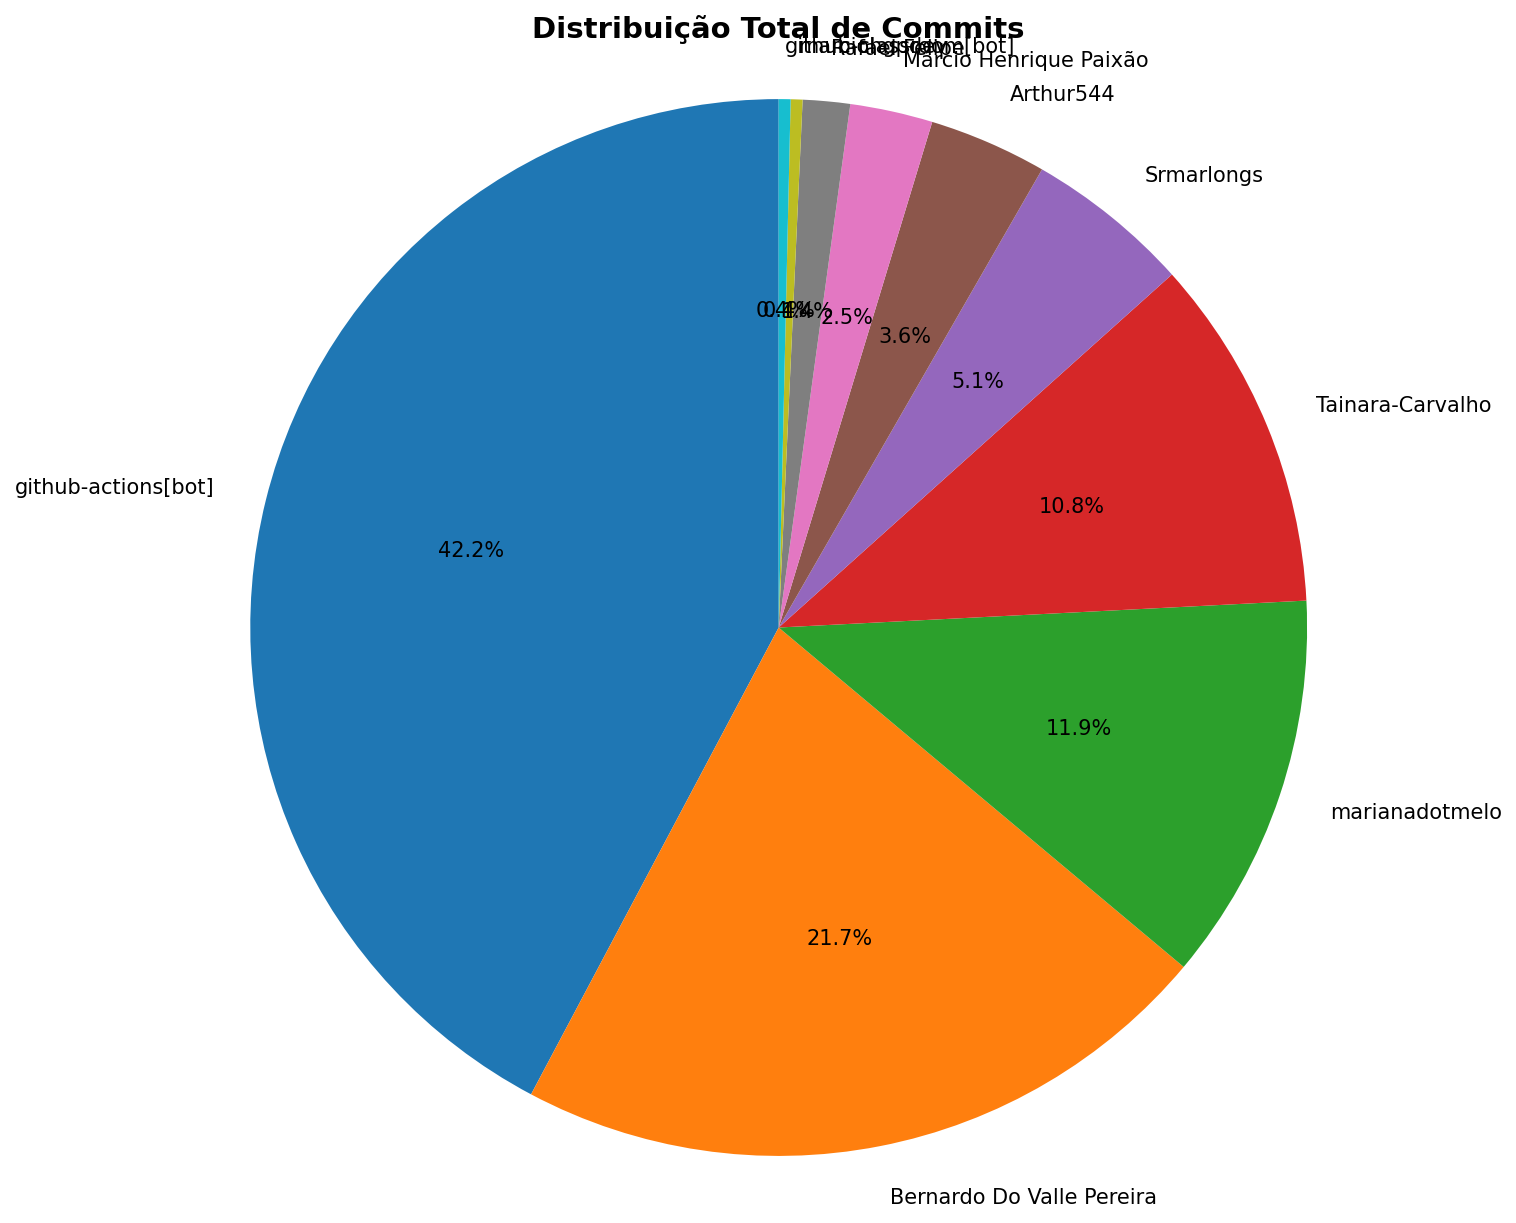
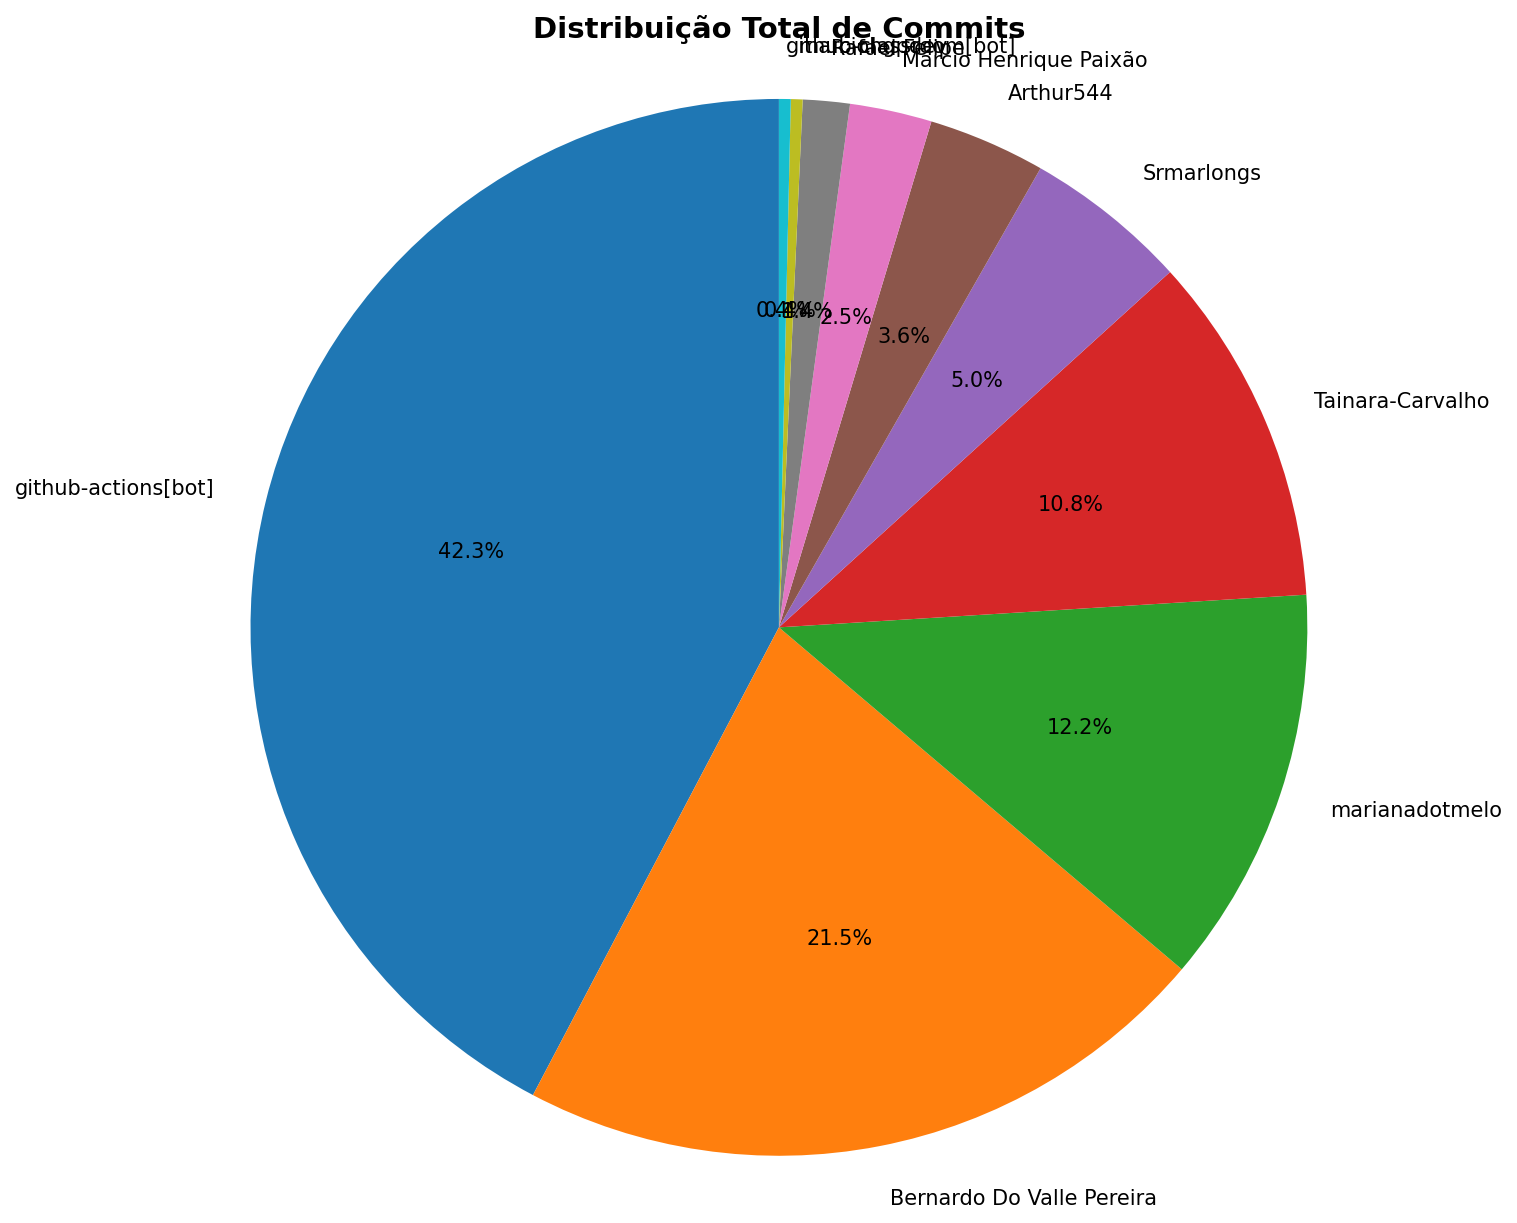
📊 Atualizar relatório de contribuições [skip ci]

diff --git a/documentos/CONTRIBUTION_REPORT.md b/documentos/CONTRIBUTION_REPORT.md
@@ -1,6 +1,6 @@
 # 📊 Relatório de Contribuições do Projeto
 
-**Última atualização:** 07/06/2026 17:49
+**Última atualização:** 07/06/2026 19:13
 
 ---
 
@@ -14,31 +14,31 @@
 | Rafael Felipe             |         4 |       249 |         2 |          4 |              2 |               1 |
 | Srmarlongs                |        14 |      1575 |        11 |         13 |             10 |               2 |
 | Tainara-Carvalho          |        30 |       785 |       172 |          8 |             27 |               2 |
-| github-actions[bot]       |       117 |       627 |       557 |          3 |            117 |               1 |
+| github-actions[bot]       |       118 |       640 |       570 |          3 |            118 |               1 |
 | github-classroom[bot]     |         1 |       774 |         0 |         19 |              1 |               3 |
 | marciohgpdev              |         1 |         5 |         5 |          1 |              1 |               1 |
-| marianadotmelo            |        33 |       833 |       429 |         14 |             18 |               3 |
+| marianadotmelo            |        34 |       834 |       439 |         14 |             19 |               3 |
 
 
 ## 📅 Contribuições Semanais (Todo o Semestre)
 
-**2026-05-31**: Arthur544: 2, Bernardo Do Valle Pereira: 7, Márcio Henrique Paixão: 5, Srmarlongs: 2, Tainara-Carvalho: 11, github-actions[bot]: 28, marianadotmelo: 12
+**2026-05-31**: Arthur544: 2, Bernardo Do Valle Pereira: 7, Márcio Henrique Paixão: 5, Srmarlongs: 2, Tainara-Carvalho: 11, github-actions[bot]: 29, marianadotmelo: 13
 
 **2026-05-24**: Bernardo Do Valle Pereira: 1
 
 **2026-05-17**: Arthur544: 1
 
-**2026-05-10**: Arthur544: 3, Bernardo Do Valle Pereira: 3, Tainara-Carvalho: 8, github-actions[bot]: 20, marianadotmelo: 11
+**2026-05-10**: Bernardo Do Valle Pereira: 3, Tainara-Carvalho: 8, github-actions[bot]: 18, marianadotmelo: 11
 
-**2026-05-03**: Bernardo Do Valle Pereira: 13, Márcio Henrique Paixão: 1, Rafael Felipe: 3, Srmarlongs: 6, github-actions[bot]: 17, marianadotmelo: 1
+**2026-05-03**: Arthur544: 3, Bernardo Do Valle Pereira: 13, Márcio Henrique Paixão: 1, Rafael Felipe: 3, Srmarlongs: 6, github-actions[bot]: 19, marianadotmelo: 1
 
 **2026-04-26**: Bernardo Do Valle Pereira: 3, Tainara-Carvalho: 2, github-actions[bot]: 5
 
 **2026-04-19**: Tainara-Carvalho: 3, github-actions[bot]: 3
 
-**2026-04-12**: Arthur544: 4, Bernardo Do Valle Pereira: 13, Márcio Henrique Paixão: 1, Srmarlongs: 6, Tainara-Carvalho: 6, github-actions[bot]: 34, marciohgpdev: 1, marianadotmelo: 9
+**2026-04-12**: Arthur544: 3, Bernardo Do Valle Pereira: 12, Márcio Henrique Paixão: 1, Srmarlongs: 5, Tainara-Carvalho: 4, github-actions[bot]: 29, marciohgpdev: 1, marianadotmelo: 9
 
-**2026-04-05**: Bernardo Do Valle Pereira: 20, Rafael Felipe: 1, github-actions[bot]: 10
+**2026-04-05**: Arthur544: 1, Bernardo Do Valle Pereira: 21, Rafael Felipe: 1, Srmarlongs: 1, Tainara-Carvalho: 2, github-actions[bot]: 15
 
 **2026-03-29**: github-classroom[bot]: 1
 
